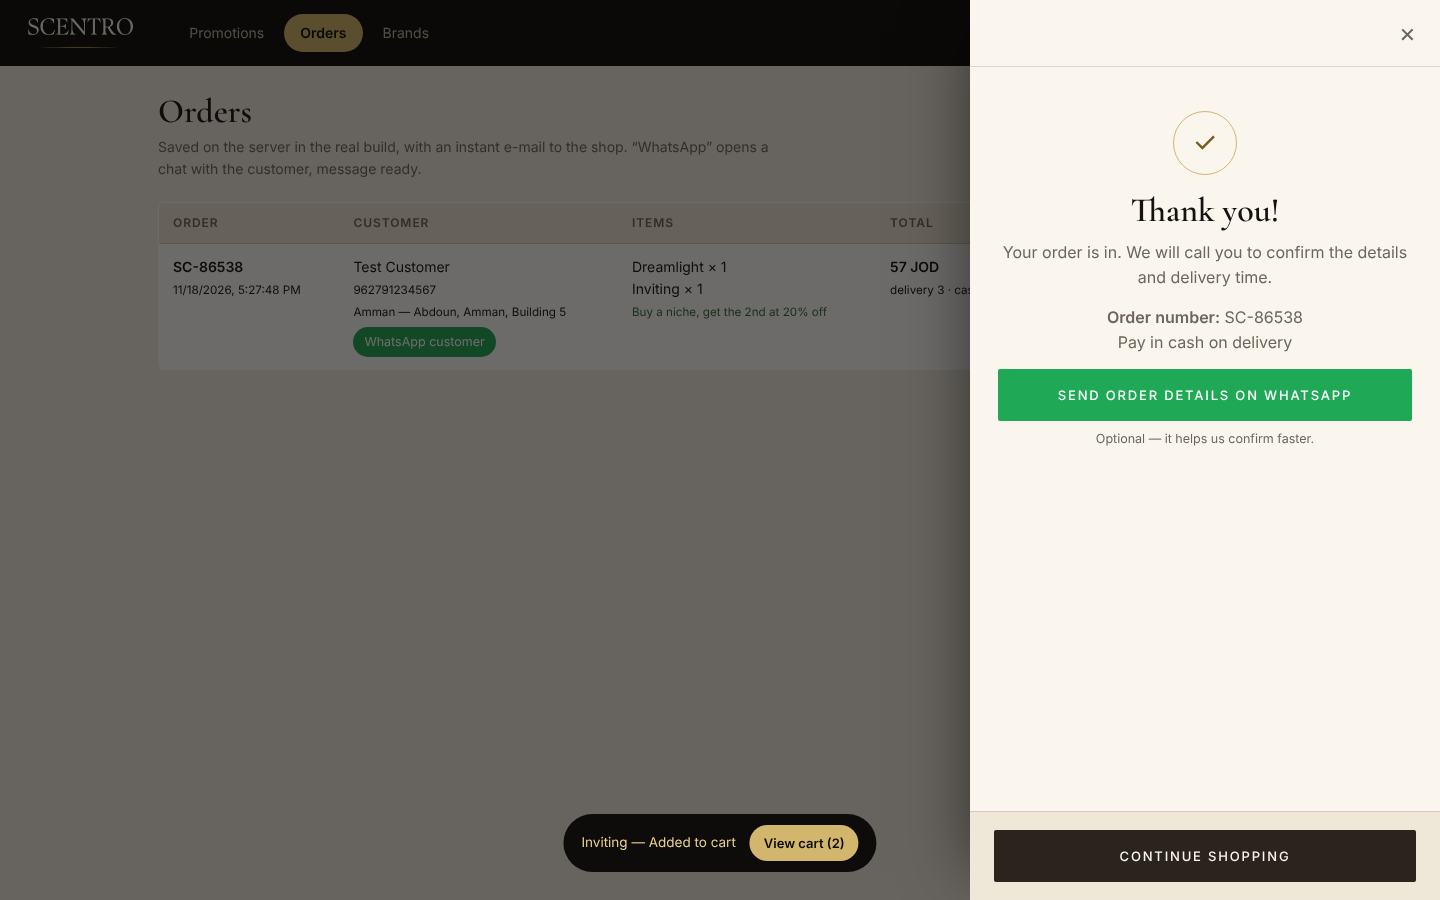
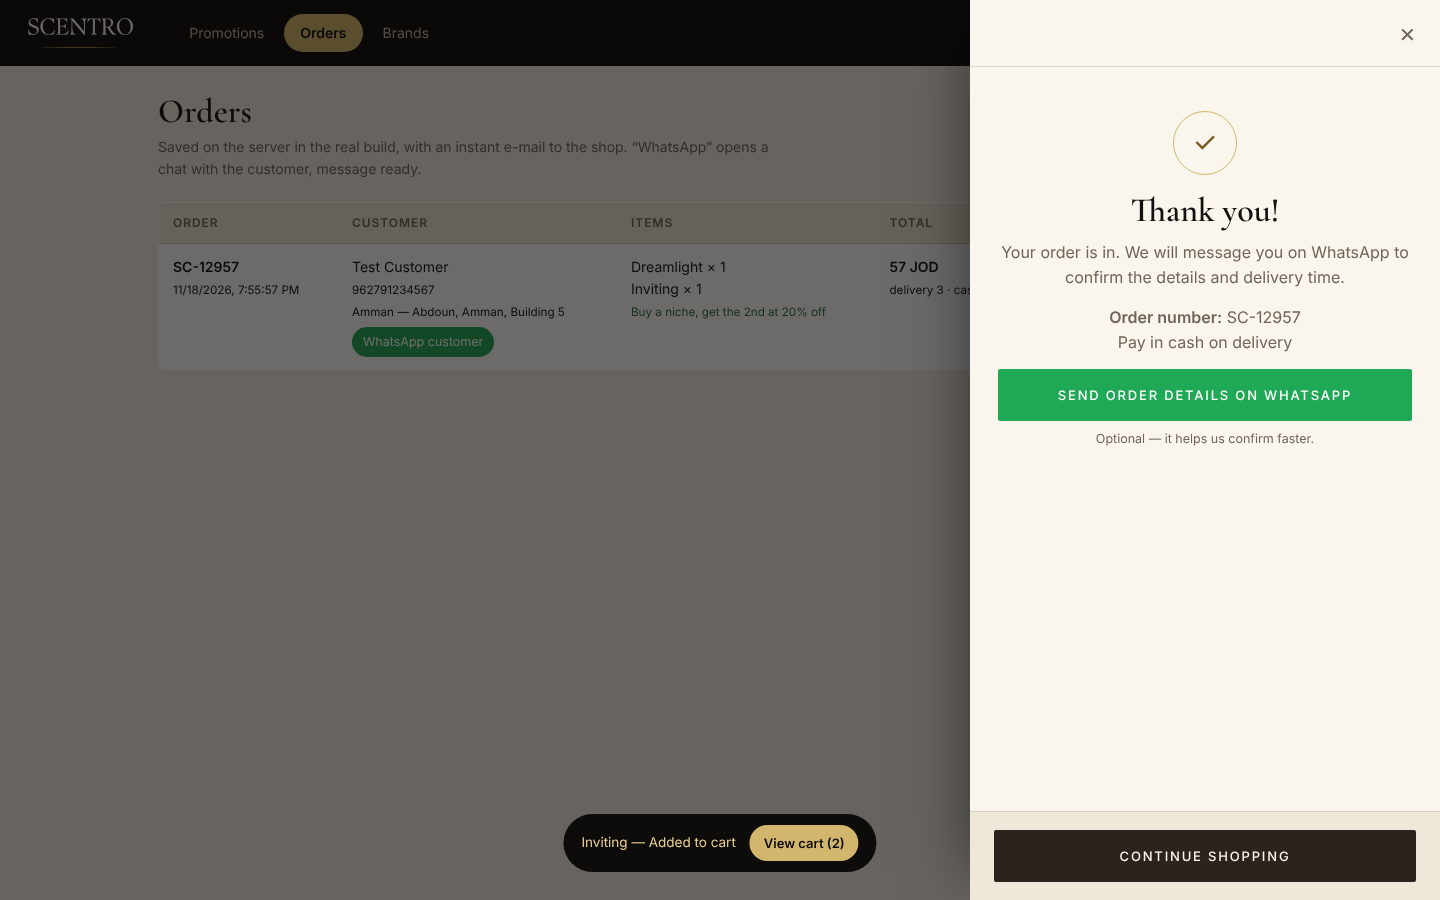
Store copy: WhatsApp-only confirmation (no calls); owner question sheet for missing/uncertain notes
Claude-Session: https://claude.ai/code/session_01UApyk7Kdwc7MEVpfJtnJsr

diff --git a/website/concept_v3/index.html b/website/concept_v3/index.html
@@ -281,7 +281,7 @@ body.ispdp .toast{bottom:92px}@media(min-width:981px){body.ispdp .toast{bottom:2
   <div><img class="flogo" src="img/logo_light.png" alt="SCENTRO"><p data-i18n="fo_p"></p><span class="pay">💵 <span data-i18n="fo_cod"></span></span></div>
   <div><h5 data-i18n="fo_h1"></h5><ul><li data-i18n="n_shop"></li><li data-i18n="n_brands"></li><li data-i18n="n_pk"></li></ul></div>
   <div><h5 data-i18n="fo_h2"></h5><ul><li data-i18n="fo_a"></li><li data-i18n="fo_t"></li><li data-i18n="fo_pr"></li></ul></div>
-  <div><h5 data-i18n="fo_h3"></h5><ul><li>Amman · Jordan</li><li>+962 79 790 6211</li><li>@scentrojo</li></ul></div>
+  <div><h5 data-i18n="fo_h3"></h5><ul><li>Amman · Jordan</li><li>+962 79 790 6211 · WhatsApp</li><li>@scentrojo</li></ul></div>
 </div><div class="legal"><span>© 2026 SCENTRO</span><span><span data-i18n="fo_c"></span> · <a href="#admin" style="border-bottom:1px solid var(--gold)">Dashboard prototype</a></span></div></div></footer>
 <a class="wa" href="#" id="waFloat" target="_blank" rel="noopener">WhatsApp</a>
 <div class="fab" id="fab"><button id="fabbtn"></button></div>
@@ -432,9 +432,9 @@ n_finder:'Find by notes',n_shop:'Shop',n_brands:'Brands',n_pk:'Packages',
  cart:'Your cart',empty:'Your cart is empty.',sub:'Subtotal',deliv:'Delivery',free:'Free',total:'Total (pay on delivery)',checkout:'Checkout',cod1:'Cash on delivery — you pay when your order arrives. No account, no card.',
  coupon:'Promo code',apply:'Apply',c_ok:'Code applied',c_bad:'This code is not valid for your cart',gift:'Free gift',
  nd_free:'Add <b>{n} JOD</b> more for free delivery',nd_gift:'Add <b>{n} JOD</b> more for a free gift',nd_tier:'Add <b>{n} JOD</b> more to save {p}%',
- co:'Your details',name:'Full name',phone:'Mobile number',gov:'Governorate',addr:'Address (area, street, building)',note:'Notes for delivery (optional)',place:'Place order',back:'Back',
- e_name:'Please enter your name',e_phone:'Enter a Jordanian mobile, e.g. 079 123 4567',e_addr:'Please enter your address',
- ok:'Thank you!',ok1:'Your order is in. We will call you to confirm the details and delivery time.',ok2:'Order number',ok3:'Pay in cash on delivery',ok_wa:'Send order details on WhatsApp',ok_wa_s:'Optional — it helps us confirm faster.',cont:'Continue shopping',added:'Added to cart'},
+ co:'Your details',name:'Full name',phone:'Mobile number (WhatsApp)',phone_h:'We confirm your order with you on WhatsApp.',gov:'Governorate',addr:'Address (area, street, building)',note:'Notes for delivery (optional)',place:'Place order',back:'Back',
+ e_name:'Please enter your name',e_phone:'Enter a Jordanian mobile with WhatsApp, e.g. 079 123 4567',e_addr:'Please enter your address',
+ ok:'Thank you!',ok1:'Your order is in. We will message you on WhatsApp to confirm the details and delivery time.',ok2:'Order number',ok3:'Pay in cash on delivery',ok_wa:'Send order details on WhatsApp',ok_wa_s:'Optional — it helps us confirm faster.',cont:'Continue shopping',added:'Added to cart'},
 ar:{skip:'تخطَّ إلى المحتوى',mist:'بودي ميست',more:'عرض المزيد',f_cov:'المطابقة تشمل {n} عطراً بنوتات معلنة — ونضيف المزيد.',sold:'نفدت الكمية',low:'بقي {n} فقط',notify:'اسألنا متى يتوفر',maxq:'المتوفر {n} فقط',s_ph:'ابحث عن عطر أو نوتة أو ماركة…',s_none:'لا نتائج. جرّب نوتة مثل فانيلا أو ورد أو عود.',s_hint:'جرّب: فانيلا · عود · ورد · ماد',view_cart:'عرض السلة',in_cart:'في سلتك',fab:'شاهد اقتراحاتك',lang_other:'English',home:'الرئيسية',crumb_shop:'تسوّق',
  pd_top:'القمة',pd_heart:'القلب',pd_base:'القاعدة',pd_pyr:'النوتات',pd_hn:'نوتات القمة هي أول ما تشمّه. نوتات القلب تظهر بعد دقائق. نوتات القاعدة تبقى الأطول.',pd_fam:'ملف الرائحة',pd_cod:'الدفع عند الاستلام',pd_cods:'ادفع نقداً عند وصول طلبك. بدون حساب وبدون بطاقة.',pd_del:'التوصيل ٣ دنانير',pd_dels:'نفس اليوم في عمّان · وكل الأردن',pd_free:'توصيل مجاني فوق {n} دينار',pd_orig:'أصلي ومختوم',pd_origs:'ماد بارفيمر الأصلي يصلك مختوماً.',pd_ask:'اسألنا عن هذا العطر على واتساب',pd_sim:'قد يعجبك أيضاً',pd_sim_s:'يشترك معه في نفس عائلات النوتات',pd_add:'أضف للسلة',pd_qty:'الكمية',pd_for:'لـ',pd_nf:'نوتات هذا العطر ستُضاف قريباً.',
 n_finder:'اختر حسب النوتات',n_shop:'تسوّق',n_brands:'الماركات',n_pk:'الباقات',
@@ -453,9 +453,9 @@ n_finder:'اختر حسب النوتات',n_shop:'تسوّق',n_brands:'الما
  cart:'سلتك',empty:'سلتك فارغة.',sub:'المجموع الفرعي',deliv:'التوصيل',free:'مجاني',total:'الإجمالي (الدفع عند الاستلام)',checkout:'إتمام الطلب',cod1:'الدفع عند الاستلام — تدفع عندما يصلك طلبك. بدون حساب وبدون بطاقة.',
  coupon:'كود الخصم',apply:'تطبيق',c_ok:'تم تطبيق الكود',c_bad:'هذا الكود غير صالح لسلتك',gift:'هدية مجانية',
  nd_free:'أضف <b>{n} دينار</b> للحصول على توصيل مجاني',nd_gift:'أضف <b>{n} دينار</b> للحصول على هدية مجانية',nd_tier:'أضف <b>{n} دينار</b> لتوفّر {p}٪',
- co:'بياناتك',name:'الاسم الكامل',phone:'رقم الموبايل',gov:'المحافظة',addr:'العنوان (المنطقة، الشارع، البناية)',note:'ملاحظات للتوصيل (اختياري)',place:'تأكيد الطلب',back:'رجوع',
- e_name:'الرجاء إدخال الاسم',e_phone:'أدخل رقم موبايل أردني، مثال 079 123 4567',e_addr:'الرجاء إدخال العنوان',
- ok:'شكراً لك!',ok1:'وصلنا طلبك. سنتصل بك لتأكيد التفاصيل وموعد التوصيل.',ok2:'رقم الطلب',ok3:'الدفع نقداً عند الاستلام',ok_wa:'أرسل تفاصيل الطلب على واتساب',ok_wa_s:'اختياري — يساعدنا على التأكيد أسرع.',cont:'متابعة التسوق',added:'أُضيف إلى السلة'}};
+ co:'بياناتك',name:'الاسم الكامل',phone:'رقم الموبايل (واتساب)',phone_h:'نؤكد طلبك معك على واتساب.',gov:'المحافظة',addr:'العنوان (المنطقة، الشارع، البناية)',note:'ملاحظات للتوصيل (اختياري)',place:'تأكيد الطلب',back:'رجوع',
+ e_name:'الرجاء إدخال الاسم',e_phone:'أدخل رقم موبايل أردني عليه واتساب، مثال 079 123 4567',e_addr:'الرجاء إدخال العنوان',
+ ok:'شكراً لك!',ok1:'وصلنا طلبك. سنراسلك على واتساب لتأكيد التفاصيل وموعد التوصيل.',ok2:'رقم الطلب',ok3:'الدفع نقداً عند الاستلام',ok_wa:'أرسل تفاصيل الطلب على واتساب',ok_wa_s:'اختياري — يساعدنا على التأكيد أسرع.',cont:'متابعة التسوق',added:'أُضيف إلى السلة'}};
 const FAM_AR={citrus:['حمضيات','ليمون، برغموت، برتقال'],fruity:['فواكه','خوخ، كمثرى، تفاح، توت'],floral:['زهور','ورد، ياسمين، توبروز، زنبق'],sweet:['فانيلا وحلاوة','فانيلا، تونكا، عسل، كراميل'],woody:['خشب','صندل، أرز، باتشولي'],amber:['عنبر ومسك','عنبر، مسك'],spicy:['توابل','قرفة، فلفل، هيل، زعفران'],aromatic:['عشبي ومنعش','لافندر، أوكالبتوس، شاي، بحري'],oud:['عود ودخان','عود، تبغ، بخور']};
 const GOV={en:['Amman','Zarqa','Irbid','Aqaba','Balqa (Salt)','Madaba','Karak','Mafraq','Jerash','Ajloun','Tafilah',"Ma'an"],ar:['عمّان','الزرقاء','إربد','العقبة','البلقاء (السلط)','مادبا','الكرك','المفرق','جرش','عجلون','الطفيلة','معان']};
 let lang=(()=>{try{const s=localStorage.getItem('scentro_lang');if(s)return JSON.parse(s)}catch{}return (navigator.language||'en').toLowerCase().startsWith('ar')?'ar':'en'})(),forV='any',colV='all',picked=[],cart=store.get('cart',{}),step='cart',code='',couponMsg='';
@@ -518,7 +518,7 @@ function renderDrawer(){const ids=Object.keys(cart);$('#dtitle').textContent=ste
   document.querySelectorAll('[data-q]').forEach(x=>x.onclick=()=>{const id=x.dataset.q;cart[id]=Math.min(PRODUCTS[id].stock,cart[id]+ +x.dataset.d);if(cart[id]<=0)delete cart[id];saveCart();updateCount();renderDrawer()});
   $('#cap').onclick=()=>{code=$('#cin').value.trim();couponMsg=code?'x':'';renderDrawer()};$('#go').onclick=()=>{step='details';renderDrawer()}}
  else{b.innerHTML=`<form id="frm" novalidate style="padding-top:18px"><div class="field" id="f1"><label>${t('name')}</label><input name="n" autocomplete="name"><div class="em">${t('e_name')}</div></div>
-  <div class="field" id="f2"><label>${t('phone')}</label><input name="p" inputmode="tel" autocomplete="tel" placeholder="07X XXX XXXX" dir="ltr"><div class="em">${t('e_phone')}</div></div>
+  <div class="field" id="f2"><label>${t('phone')}</label><input name="p" inputmode="tel" autocomplete="tel" placeholder="07X XXX XXXX" dir="ltr"><small style="display:block;color:var(--mute);font-size:12.5px;margin-top:5px">${t('phone_h')}</small><div class="em">${t('e_phone')}</div></div>
   <div class="field"><label>${t('gov')}</label><select name="g">${GOV[lang].map(g=>`<option>${g}</option>`).join('')}</select></div>
   <div class="field" id="f3"><label>${t('addr')}</label><textarea name="a" rows="2"></textarea><div class="em">${t('e_addr')}</div></div>
   <div class="field"><label>${t('note')}</label><input name="x"></div><div class="codnote">💵 ${t('cod1')}</div></form>`;

diff --git a/website/concept_v3/template.html b/website/concept_v3/template.html
@@ -281,7 +281,7 @@ body.ispdp .toast{bottom:92px}@media(min-width:981px){body.ispdp .toast{bottom:2
   <div><img class="flogo" src="img/logo_light.png" alt="SCENTRO"><p data-i18n="fo_p"></p><span class="pay">💵 <span data-i18n="fo_cod"></span></span></div>
   <div><h5 data-i18n="fo_h1"></h5><ul><li data-i18n="n_shop"></li><li data-i18n="n_brands"></li><li data-i18n="n_pk"></li></ul></div>
   <div><h5 data-i18n="fo_h2"></h5><ul><li data-i18n="fo_a"></li><li data-i18n="fo_t"></li><li data-i18n="fo_pr"></li></ul></div>
-  <div><h5 data-i18n="fo_h3"></h5><ul><li>Amman · Jordan</li><li>+962 79 790 6211</li><li>@scentrojo</li></ul></div>
+  <div><h5 data-i18n="fo_h3"></h5><ul><li>Amman · Jordan</li><li>+962 79 790 6211 · WhatsApp</li><li>@scentrojo</li></ul></div>
 </div><div class="legal"><span>© 2026 SCENTRO</span><span><span data-i18n="fo_c"></span> · <a href="#admin" style="border-bottom:1px solid var(--gold)">Dashboard prototype</a></span></div></div></footer>
 <a class="wa" href="#" id="waFloat" target="_blank" rel="noopener">WhatsApp</a>
 <div class="fab" id="fab"><button id="fabbtn"></button></div>
@@ -333,9 +333,9 @@ n_finder:'Find by notes',n_shop:'Shop',n_brands:'Brands',n_pk:'Packages',
  cart:'Your cart',empty:'Your cart is empty.',sub:'Subtotal',deliv:'Delivery',free:'Free',total:'Total (pay on delivery)',checkout:'Checkout',cod1:'Cash on delivery — you pay when your order arrives. No account, no card.',
  coupon:'Promo code',apply:'Apply',c_ok:'Code applied',c_bad:'This code is not valid for your cart',gift:'Free gift',
  nd_free:'Add <b>{n} JOD</b> more for free delivery',nd_gift:'Add <b>{n} JOD</b> more for a free gift',nd_tier:'Add <b>{n} JOD</b> more to save {p}%',
- co:'Your details',name:'Full name',phone:'Mobile number',gov:'Governorate',addr:'Address (area, street, building)',note:'Notes for delivery (optional)',place:'Place order',back:'Back',
- e_name:'Please enter your name',e_phone:'Enter a Jordanian mobile, e.g. 079 123 4567',e_addr:'Please enter your address',
- ok:'Thank you!',ok1:'Your order is in. We will call you to confirm the details and delivery time.',ok2:'Order number',ok3:'Pay in cash on delivery',ok_wa:'Send order details on WhatsApp',ok_wa_s:'Optional — it helps us confirm faster.',cont:'Continue shopping',added:'Added to cart'},
+ co:'Your details',name:'Full name',phone:'Mobile number (WhatsApp)',phone_h:'We confirm your order with you on WhatsApp.',gov:'Governorate',addr:'Address (area, street, building)',note:'Notes for delivery (optional)',place:'Place order',back:'Back',
+ e_name:'Please enter your name',e_phone:'Enter a Jordanian mobile with WhatsApp, e.g. 079 123 4567',e_addr:'Please enter your address',
+ ok:'Thank you!',ok1:'Your order is in. We will message you on WhatsApp to confirm the details and delivery time.',ok2:'Order number',ok3:'Pay in cash on delivery',ok_wa:'Send order details on WhatsApp',ok_wa_s:'Optional — it helps us confirm faster.',cont:'Continue shopping',added:'Added to cart'},
 ar:{skip:'تخطَّ إلى المحتوى',mist:'بودي ميست',more:'عرض المزيد',f_cov:'المطابقة تشمل {n} عطراً بنوتات معلنة — ونضيف المزيد.',sold:'نفدت الكمية',low:'بقي {n} فقط',notify:'اسألنا متى يتوفر',maxq:'المتوفر {n} فقط',s_ph:'ابحث عن عطر أو نوتة أو ماركة…',s_none:'لا نتائج. جرّب نوتة مثل فانيلا أو ورد أو عود.',s_hint:'جرّب: فانيلا · عود · ورد · ماد',view_cart:'عرض السلة',in_cart:'في سلتك',fab:'شاهد اقتراحاتك',lang_other:'English',home:'الرئيسية',crumb_shop:'تسوّق',
  pd_top:'القمة',pd_heart:'القلب',pd_base:'القاعدة',pd_pyr:'النوتات',pd_hn:'نوتات القمة هي أول ما تشمّه. نوتات القلب تظهر بعد دقائق. نوتات القاعدة تبقى الأطول.',pd_fam:'ملف الرائحة',pd_cod:'الدفع عند الاستلام',pd_cods:'ادفع نقداً عند وصول طلبك. بدون حساب وبدون بطاقة.',pd_del:'التوصيل ٣ دنانير',pd_dels:'نفس اليوم في عمّان · وكل الأردن',pd_free:'توصيل مجاني فوق {n} دينار',pd_orig:'أصلي ومختوم',pd_origs:'ماد بارفيمر الأصلي يصلك مختوماً.',pd_ask:'اسألنا عن هذا العطر على واتساب',pd_sim:'قد يعجبك أيضاً',pd_sim_s:'يشترك معه في نفس عائلات النوتات',pd_add:'أضف للسلة',pd_qty:'الكمية',pd_for:'لـ',pd_nf:'نوتات هذا العطر ستُضاف قريباً.',
 n_finder:'اختر حسب النوتات',n_shop:'تسوّق',n_brands:'الماركات',n_pk:'الباقات',
@@ -354,9 +354,9 @@ n_finder:'اختر حسب النوتات',n_shop:'تسوّق',n_brands:'الما
  cart:'سلتك',empty:'سلتك فارغة.',sub:'المجموع الفرعي',deliv:'التوصيل',free:'مجاني',total:'الإجمالي (الدفع عند الاستلام)',checkout:'إتمام الطلب',cod1:'الدفع عند الاستلام — تدفع عندما يصلك طلبك. بدون حساب وبدون بطاقة.',
  coupon:'كود الخصم',apply:'تطبيق',c_ok:'تم تطبيق الكود',c_bad:'هذا الكود غير صالح لسلتك',gift:'هدية مجانية',
  nd_free:'أضف <b>{n} دينار</b> للحصول على توصيل مجاني',nd_gift:'أضف <b>{n} دينار</b> للحصول على هدية مجانية',nd_tier:'أضف <b>{n} دينار</b> لتوفّر {p}٪',
- co:'بياناتك',name:'الاسم الكامل',phone:'رقم الموبايل',gov:'المحافظة',addr:'العنوان (المنطقة، الشارع، البناية)',note:'ملاحظات للتوصيل (اختياري)',place:'تأكيد الطلب',back:'رجوع',
- e_name:'الرجاء إدخال الاسم',e_phone:'أدخل رقم موبايل أردني، مثال 079 123 4567',e_addr:'الرجاء إدخال العنوان',
- ok:'شكراً لك!',ok1:'وصلنا طلبك. سنتصل بك لتأكيد التفاصيل وموعد التوصيل.',ok2:'رقم الطلب',ok3:'الدفع نقداً عند الاستلام',ok_wa:'أرسل تفاصيل الطلب على واتساب',ok_wa_s:'اختياري — يساعدنا على التأكيد أسرع.',cont:'متابعة التسوق',added:'أُضيف إلى السلة'}};
+ co:'بياناتك',name:'الاسم الكامل',phone:'رقم الموبايل (واتساب)',phone_h:'نؤكد طلبك معك على واتساب.',gov:'المحافظة',addr:'العنوان (المنطقة، الشارع، البناية)',note:'ملاحظات للتوصيل (اختياري)',place:'تأكيد الطلب',back:'رجوع',
+ e_name:'الرجاء إدخال الاسم',e_phone:'أدخل رقم موبايل أردني عليه واتساب، مثال 079 123 4567',e_addr:'الرجاء إدخال العنوان',
+ ok:'شكراً لك!',ok1:'وصلنا طلبك. سنراسلك على واتساب لتأكيد التفاصيل وموعد التوصيل.',ok2:'رقم الطلب',ok3:'الدفع نقداً عند الاستلام',ok_wa:'أرسل تفاصيل الطلب على واتساب',ok_wa_s:'اختياري — يساعدنا على التأكيد أسرع.',cont:'متابعة التسوق',added:'أُضيف إلى السلة'}};
 const FAM_AR={citrus:['حمضيات','ليمون، برغموت، برتقال'],fruity:['فواكه','خوخ، كمثرى، تفاح، توت'],floral:['زهور','ورد، ياسمين، توبروز، زنبق'],sweet:['فانيلا وحلاوة','فانيلا، تونكا، عسل، كراميل'],woody:['خشب','صندل، أرز، باتشولي'],amber:['عنبر ومسك','عنبر، مسك'],spicy:['توابل','قرفة، فلفل، هيل، زعفران'],aromatic:['عشبي ومنعش','لافندر، أوكالبتوس، شاي، بحري'],oud:['عود ودخان','عود، تبغ، بخور']};
 const GOV={en:['Amman','Zarqa','Irbid','Aqaba','Balqa (Salt)','Madaba','Karak','Mafraq','Jerash','Ajloun','Tafilah',"Ma'an"],ar:['عمّان','الزرقاء','إربد','العقبة','البلقاء (السلط)','مادبا','الكرك','المفرق','جرش','عجلون','الطفيلة','معان']};
 let lang=(()=>{try{const s=localStorage.getItem('scentro_lang');if(s)return JSON.parse(s)}catch{}return (navigator.language||'en').toLowerCase().startsWith('ar')?'ar':'en'})(),forV='any',colV='all',picked=[],cart=store.get('cart',{}),step='cart',code='',couponMsg='';
@@ -419,7 +419,7 @@ function renderDrawer(){const ids=Object.keys(cart);$('#dtitle').textContent=ste
   document.querySelectorAll('[data-q]').forEach(x=>x.onclick=()=>{const id=x.dataset.q;cart[id]=Math.min(PRODUCTS[id].stock,cart[id]+ +x.dataset.d);if(cart[id]<=0)delete cart[id];saveCart();updateCount();renderDrawer()});
   $('#cap').onclick=()=>{code=$('#cin').value.trim();couponMsg=code?'x':'';renderDrawer()};$('#go').onclick=()=>{step='details';renderDrawer()}}
  else{b.innerHTML=`<form id="frm" novalidate style="padding-top:18px"><div class="field" id="f1"><label>${t('name')}</label><input name="n" autocomplete="name"><div class="em">${t('e_name')}</div></div>
-  <div class="field" id="f2"><label>${t('phone')}</label><input name="p" inputmode="tel" autocomplete="tel" placeholder="07X XXX XXXX" dir="ltr"><div class="em">${t('e_phone')}</div></div>
+  <div class="field" id="f2"><label>${t('phone')}</label><input name="p" inputmode="tel" autocomplete="tel" placeholder="07X XXX XXXX" dir="ltr"><small style="display:block;color:var(--mute);font-size:12.5px;margin-top:5px">${t('phone_h')}</small><div class="em">${t('e_phone')}</div></div>
   <div class="field"><label>${t('gov')}</label><select name="g">${GOV[lang].map(g=>`<option>${g}</option>`).join('')}</select></div>
   <div class="field" id="f3"><label>${t('addr')}</label><textarea name="a" rows="2"></textarea><div class="em">${t('e_addr')}</div></div>
   <div class="field"><label>${t('note')}</label><input name="x"></div><div class="codnote">💵 ${t('cod1')}</div></form>`;
